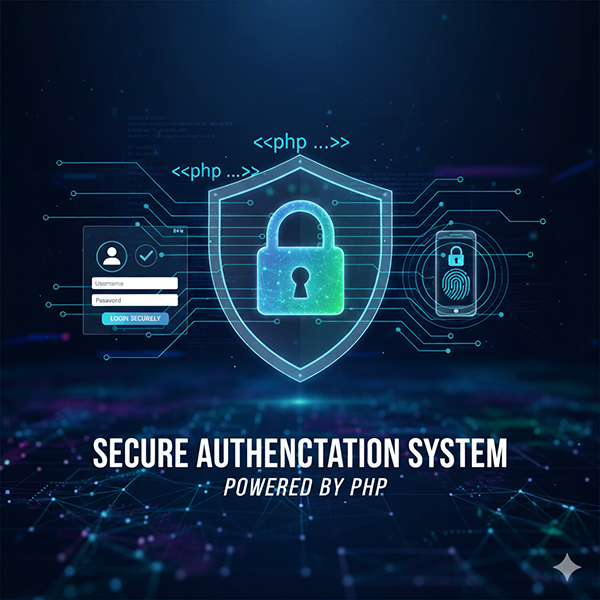
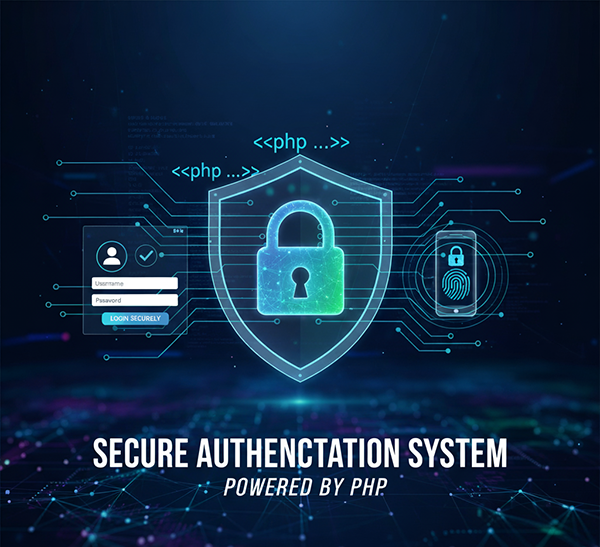
Cambiado foto de proyecto My_delicious_blog y contenedores

diff --git a/js/projects.js b/js/projects.js
@@ -1,29 +1,27 @@
+// ==========================================
+// PROJECTS.JS - CARDS COMPACTAS Y OPTIMIZADAS
+// ==========================================
+
 document.addEventListener("DOMContentLoaded", () => {
 
-    // Creacion dinamica de proyectos
     const projects = [
         {
             title: "My Delicious Blog",
             photo: "img/Proyectos/my_delicious_blog.png",
-            description: "Blog de recetas con login, autenticación y roles de usuario desarrollado con Laravel. Permite crear, editar y buscar recetas de forma intuitiva.",
+            description: "Sistema completo de gestión de recetas con autenticación, roles de usuario y CRUD. Desarrollado con Laravel, MySQL y Tailwind CSS.",
+            tags: ["Laravel", "MySQL", "Auth", "CRUD"],
             link: "my_delicious_blog.html",
             lottie: false
         },
         {
             title: "Secure Authentication System",
             photo: "img/Proyectos/secure_authentication_system.png",
-            description: "Sistema completo de registro y autenticación de usuarios desarrollado con PHP puro y MySQL, implementando las mejores prácticas de seguridad web para proteger contra las vulnerabilidades más comunes.",
+            description: "Sistema de autenticación seguro con PHP puro. Implementa 9 capas de protección contra SQL Injection, XSS, CSRF y Session Fixation.",
+            tags: ["PHP", "Security", "PDO", "BCRYPT"],
             link: "secure_authentication_system.html",
             lottie: false
-        },
-       /* {
-            title: "Próximamente...",
-            photo: "lottie/Under_construction.json",
-            description: "Proyecto en desarrollo",
-            link: "#",
-            lottie: true
-        }*/
-    ]
+        }
+    ];
 
     const tab_projects = document.getElementById("tab-proyectos");
     
@@ -33,7 +31,7 @@ document.addEventListener("DOMContentLoaded", () => {
 
         const link = document.createElement("a");
         link.href = url;
-        link.className = "btn btn-primary transition-transform duration-200 hover:scale-105";
+        link.className = "btn btn-sm btn-primary transition-transform duration-200 hover:scale-105";
 
         const text = document.createTextNode("Ver detalles");
         link.appendChild(text);
@@ -41,8 +39,8 @@ document.addEventListener("DOMContentLoaded", () => {
         // SVG
         const svg = document.createElementNS("http://www.w3.org/2000/svg", "svg");
         svg.setAttribute("xmlns", "http://www.w3.org/2000/svg");
-        svg.setAttribute("width", "24");
-        svg.setAttribute("height", "24");
+        svg.setAttribute("width", "20");
+        svg.setAttribute("height", "20");
         svg.setAttribute("viewBox", "0 0 24 24");
         svg.setAttribute("fill", "none");
         svg.setAttribute("stroke", "currentColor");
@@ -66,21 +64,37 @@ document.addEventListener("DOMContentLoaded", () => {
         return actions;
     }
 
+    // ✅ Función para crear tags tecnológicos
+    function crearTags(tags) {
+        const container = document.createElement("div");
+        container.className = "flex flex-wrap gap-2 mt-3";
+
+        tags.forEach(tag => {
+            const badge = document.createElement("span");
+            badge.className = "badge badge-sm badge-outline";
+            badge.textContent = tag;
+            container.appendChild(badge);
+        });
+
+        return container;
+    }
 
     projects.forEach(project => {
         const card = document.createElement("div");
-        card.className = "card bg-base-100 shadow-md hover:shadow-xl transition-shadow duration-300";
+        // ✅ Altura máxima controlada + hover suave
+        card.className = "card bg-base-100 shadow-md hover:shadow-xl transition-all duration-300 hover:-translate-y-1";
 
         const body = document.createElement("div");
-        body.className = "card-body";
+        body.className = "card-body p-4"; // ✅ Padding reducido
 
+        // ✅ SOLUCIÓN: Contenedor más ancho (aspect ratio 16:9)
         const figure = document.createElement("figure");
-        // Altura fija para todas las imágenes (h-80 = 320px para ratio 4:3)
-        figure.className = "rounded-xl overflow-hidden shadow-md group h-80";
+        figure.className = "rounded-lg overflow-hidden bg-gray-800/50 group w-full aspect-video"; // aspect-video = 16:9
+        // No necesitamos height fija, aspect-video lo maneja
 
         if (project.lottie) {
             const animContainer = document.createElement("div");
-            animContainer.className = "w-full h-full";
+            animContainer.className = "w-full h-full flex items-center justify-center";
             figure.appendChild(animContainer);
 
             lottie.loadAnimation({
@@ -93,30 +107,36 @@ document.addEventListener("DOMContentLoaded", () => {
 
         } else {
             const img = document.createElement("img");
-            img.className = "w-full h-full object-cover transition-transform duration-500 group-hover:scale-105";
+            // ✅ object-contain = muestra la imagen COMPLETA
+            // ✅ El contenedor con aspect-video hace que use más ancho
+            img.className = "w-full h-full object-contain transition-transform duration-500 group-hover:scale-105";
             img.src = project.photo;
             img.alt = project.title;
             figure.appendChild(img);
         }
 
-
         const h2 = document.createElement("h2");
-        h2.className = "card-title mt-5 text-2xl font-bold";
+        h2.className = "card-title mt-4 text-xl font-bold"; // ✅ Título más pequeño
         h2.textContent = project.title;
 
         const p = document.createElement("p");
-        p.className = "mt-2 text-gray-300";
+        p.className = "mt-2 text-gray-300 text-sm leading-relaxed"; // ✅ Texto más pequeño
         p.textContent = project.description;
 
+        // ✅ Tags tecnológicos
+        const tags = crearTags(project.tags);
 
         // Construir card
         body.appendChild(figure);
         body.appendChild(h2);
         body.appendChild(p);
+        body.appendChild(tags);
+        
         if (project.link !== "#") {
             const button = crearBotonVerDetalles(project.link);
             body.appendChild(button);
         }
+        
         card.appendChild(body);
         tab_projects.appendChild(card);
     });

diff --git a/js/canvas.js b/js/canvas.js
@@ -9,28 +9,32 @@ document.addEventListener("DOMContentLoaded", () => {
         width = canvas.width = window.innerWidth;
         height = canvas.height = window.innerHeight;
     }
-    // Cuando se cambia el tamaño de ventana se ejecuta
+    
     window.addEventListener("resize", resize);
     resize();
 
-    // Creo las particulas
-    const particles = Array.from({ length: 100 }, () => ({
+    // Reduce partículas en móviles
+    const isMobile = window.innerWidth < 768;
+    const particleCount = isMobile ? 35 : 100; // 35 en móvil, 100 en desktop
+    const particleSpeed = isMobile ? 0.4 : 0.7; // Más lentas en móvil = menos CPU
+
+    // Crear las partículas
+    const particles = Array.from({ length: particleCount }, () => ({
         x: Math.random() * width,
         y: Math.random() * height,
-        vx: (Math.random() - 0.5) * 0.7,
-        vy: (Math.random() - 0.5) * 0.7
+        vx: (Math.random() - 0.5) * particleSpeed,
+        vy: (Math.random() - 0.5) * particleSpeed
     }));
 
     function draw() {
-        // Dibuja un rectángulo semitransparente negro que cubre todo el canvas. 
-        // Esto genera el efecto de “desvanecimiento” de los rastros anteriores de las partículas, 
-        // creando una especie de estela.
+        // Efecto de desvanecimiento
         ctx.fillStyle = "rgba(0, 0, 0, 0.2)";
         ctx.fillRect(0, 0, width, height);
         
-        // Color de las particulas
+        // Color de las partículas
         ctx.fillStyle = "#38bdf8";
-        // Actualiza la posicion de las particulas
+        
+        // Actualiza la posición de las partículas
         particles.forEach(p => {
             p.x += p.vx;
             p.y += p.vy;
@@ -40,10 +44,9 @@ document.addEventListener("DOMContentLoaded", () => {
             ctx.arc(p.x, p.y, 2, 0, Math.PI * 2);
             ctx.fill();
         });
-        // Pide al navegador que vuelva a ejecutar en el próximo frame de animación,
-        // creando un bucle infinito que actualiza y redibuja las partículas.
+        
         requestAnimationFrame(draw);
     }
 
     draw();
-})
+});
